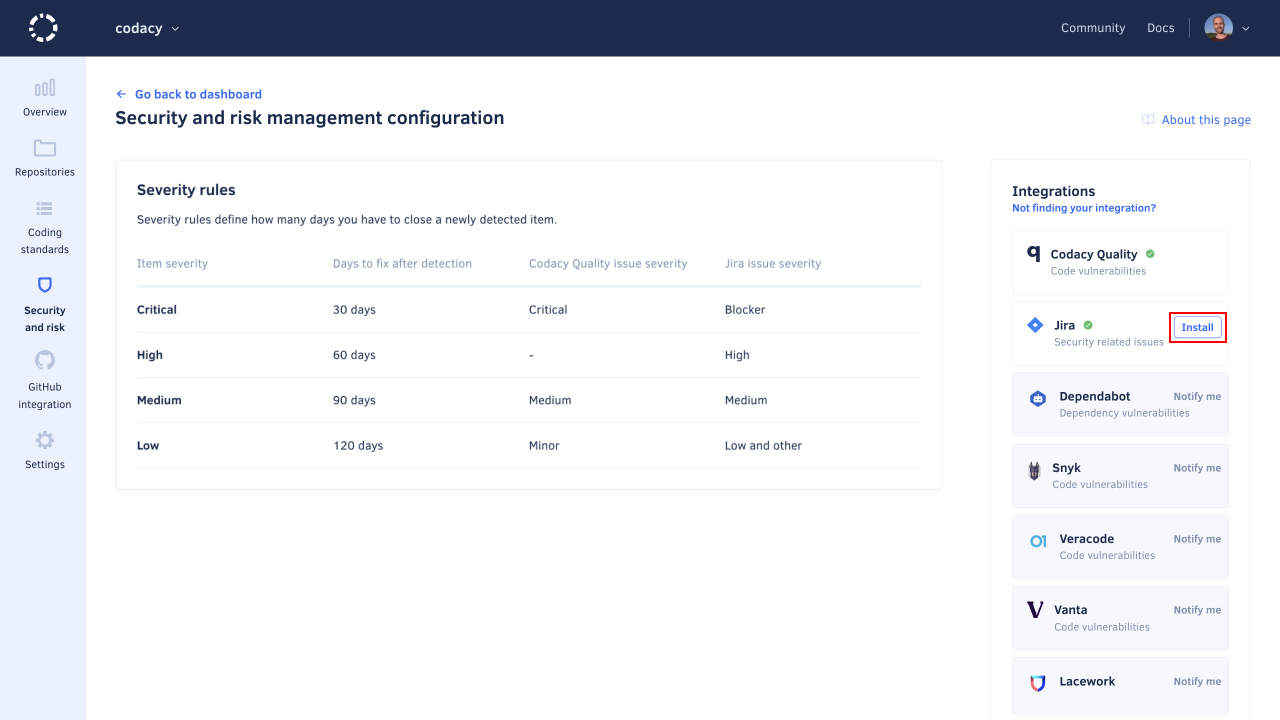
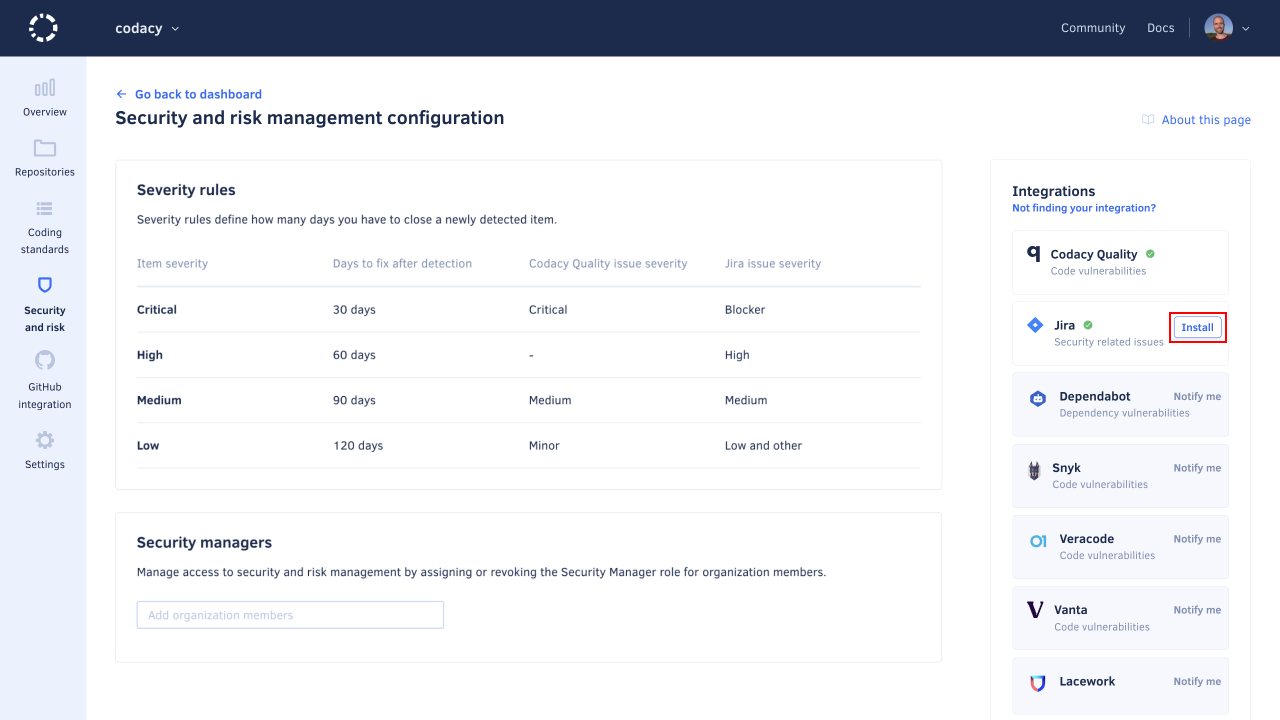
feat: Unhide documentation about the Security Manager role HRZ-185 (#1777)
* feat: Unhide documentation about the Security Manager role

* feat: Update screenshots

Changed region(s): [[0.25, 0.7944, 0.625, 0.825], [0.125, 0.7944, 0.2188, 0.8861], [0.0938, 0.7333, 0.2188, 0.7639]]

diff --git a/docs/organizations/managing-security-and-risk.md b/docs/organizations/managing-security-and-risk.md
@@ -44,7 +44,7 @@ When viewing the item list:
 
 ## Configuration page
 
-The **Security and risk management configuration** page lets you [manage integrations](#managing-integrations) to fetch security vulnerability information from third-party platforms<!--, as well as [assign or revoke the Security Manager role](#managing-access-to-security-and-risk-management) for organization members-->.
+The **Security and risk management configuration** page lets you [manage integrations](#managing-integrations) to fetch security vulnerability information from third-party platforms, as well as [assign or revoke the Security Manager role](#managing-access-to-security-and-risk-management) for organization members.
 
 To access the configuration page, access the [dashboard](#dashboard) or the [item list](#item-list) and click the **Configure** button in the top right-hand corner of the page.
 
@@ -180,9 +180,6 @@ The following table defines item severities and days to fix the associated secur
 | Medium            | 90               | Medium                               | Medium                             |
 | Low               | 120              | Minor                                | Low and other                      |
 
-<!--
-TODO Publish this section once deployed. See 
-
 ## Managing access to security and risk management
 
 To better track and address security issues, organization admins can extend access to security and risk management by assigning the Security Manager role to organization members.
@@ -216,7 +213,6 @@ To revoke the Security Manager role:
 1.  In the **Permissions** area, scroll the list to find the relevant user.
 
 1.  Click the **Revoke role icon** to the right of the user's name and confirm.
--->
 
 <!--
 TODO Update this section once the behavior is consistent. See https://codacy.slack.com/archives/C050XTVETSQ/p1687167901474059

diff --git a/docs/organizations/roles-and-permissions-for-organizations.md b/docs/organizations/roles-and-permissions-for-organizations.md
@@ -106,8 +106,8 @@ The table below maps the GitHub Cloud and GitHub Enterprise roles to the corresp
     </tr>
     <tr>
       <td>
-        Access security and risk management<!--,<br/>
-        assign and revoke <a href="/organizations/managing-security-and-risk/#managing-access-to-security-and-risk-management">Security Manager role</a>-->
+        Access security and risk management,<br/>
+        assign and revoke <a href="/organizations/managing-security-and-risk/#managing-access-to-security-and-risk-management">Security Manager role</a>
       </td>
       <td>No</td>
       <td colspan="2">No</td>
@@ -222,8 +222,8 @@ The table below maps the GitLab Cloud and GitLab Enterprise roles to the corresp
     </tr>
     <tr>
       <td>
-        Access security and risk management<!--,<br/>
-        assign and revoke <a href="/organizations/managing-security-and-risk/#managing-access-to-security-and-risk-management">Security Manager role</a>-->
+        Access security and risk management,<br/>
+        assign and revoke <a href="/organizations/managing-security-and-risk/#managing-access-to-security-and-risk-management">Security Manager role</a>
       </td>
       <td>No</td>
       <td colspan="2">No</td>
@@ -306,8 +306,8 @@ The table below maps the Bitbucket Cloud and Bitbucket Server roles to the corre
     </tr>
     <tr>
       <td>
-        Access security and risk management<!--,<br/>
-        assign and revoke <a href="/organizations/managing-security-and-risk/#managing-access-to-security-and-risk-management">Security Manager role</a>-->
+        Access security and risk management,<br/>
+        assign and revoke <a href="/organizations/managing-security-and-risk/#managing-access-to-security-and-risk-management">Security Manager role</a>
       </td>
       <td colspan="2">No</td>
       <td class="yes">Yes</td>
